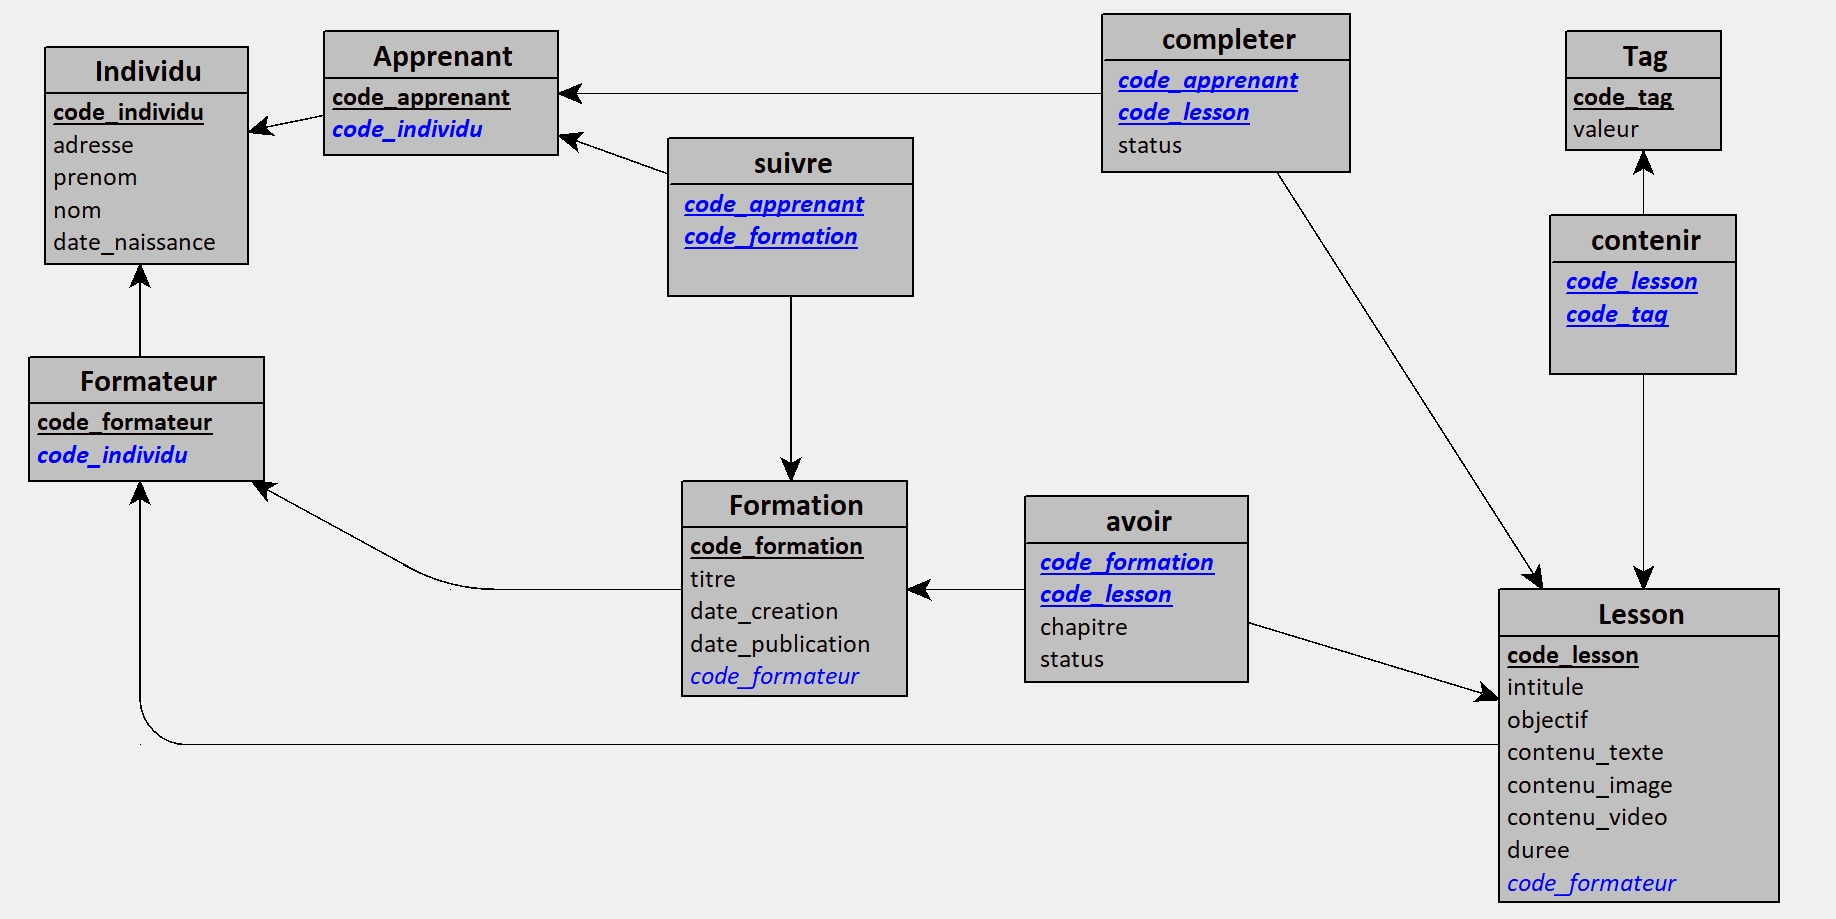
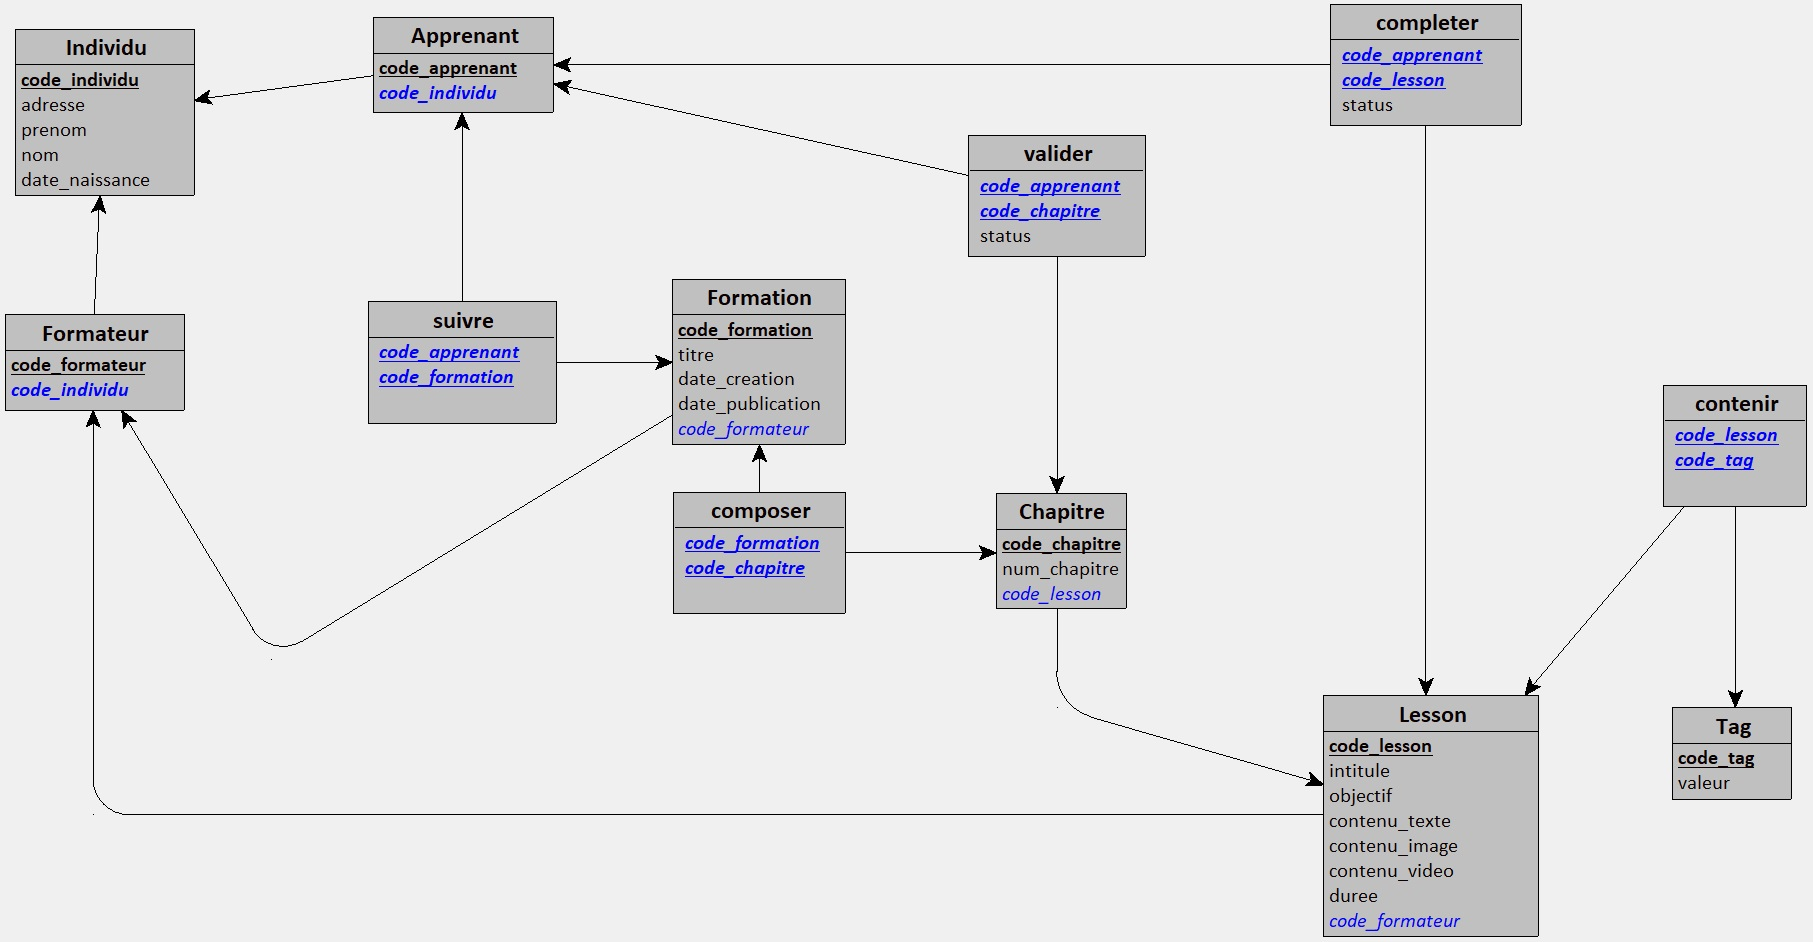
dev: unending updates

diff --git a/README.md b/README.md
@@ -58,20 +58,22 @@ Consiste à écrire en français (ou dans la langue de votre choix) une phrase d
 
 - Une **Formation** contient un titre, une date de création et de publication
 
-  - elle est construite(rédiger) par un **formateur** (son auteur)
-  - elle contient un ou plusieurs **modules**
-  - des **apprenants** s'inscrivent pour suivre une formation
+  - elle est construite(gérer) par un _formateur_ (son auteur)
+  - elle contient un ou plusieurs _modules_ (chapitres)
+  - des _apprenants_ s'inscrivent pour suivre une ou plusieur formations
   - elle est validée lorsque tout les modules qui la compose sont validés
 
 - Un **Module** (Lesson) contient un intitulé, un objectif, du contenu (texte et/ou image et/ou vidéo), une durée
 
-  - est construit(écrit) par un formateur
+  - est construit(rédiger) par un formateur
   - peut se trouver dans une ou plusieurs formations
   - contient un ou plusieurs **tag**
-  - est validé, ou non, par un apprenant
+  - peut être validé, ou non, par un apprenant
+    - à travers une formation
+    - ou tel quel
 
-- Formateur contient un code unique de formateur
-- Apprenant contient un code unique d'apprenant
+- **Formateur** contient un code unique de formateur
+- **Apprenant** contient un code unique d'apprenant
 
 - Les formateurs et les apprenants ont ce types d'information en commun:
   - nom
@@ -116,13 +118,17 @@ Il est généré à partir du MCD.
 
 **Tag** = (code_tag VARCHAR(50), valeur VARCHAR(50));
 
-**avoir** = (#code_formation, #code_lesson, chapitre VARCHAR(50), status LOGICAL);
+**Chapitre** = (code_chapitre VARCHAR(50), num_chapitre VARCHAR(50), #code_lesson);
 
 **suivre** = (#code_apprenant, #code_formation);
 
 **contenir** = (#code_lesson, #code_tag);
 
 **completer** = (#code_apprenant, #code_lesson, status LOGICAL);
+
+**composer** = (#code_formation, #code_chapitre);
+
+**valider** = (#code_apprenant, #code_chapitre, status LOGICAL);
 
 </details>
 
